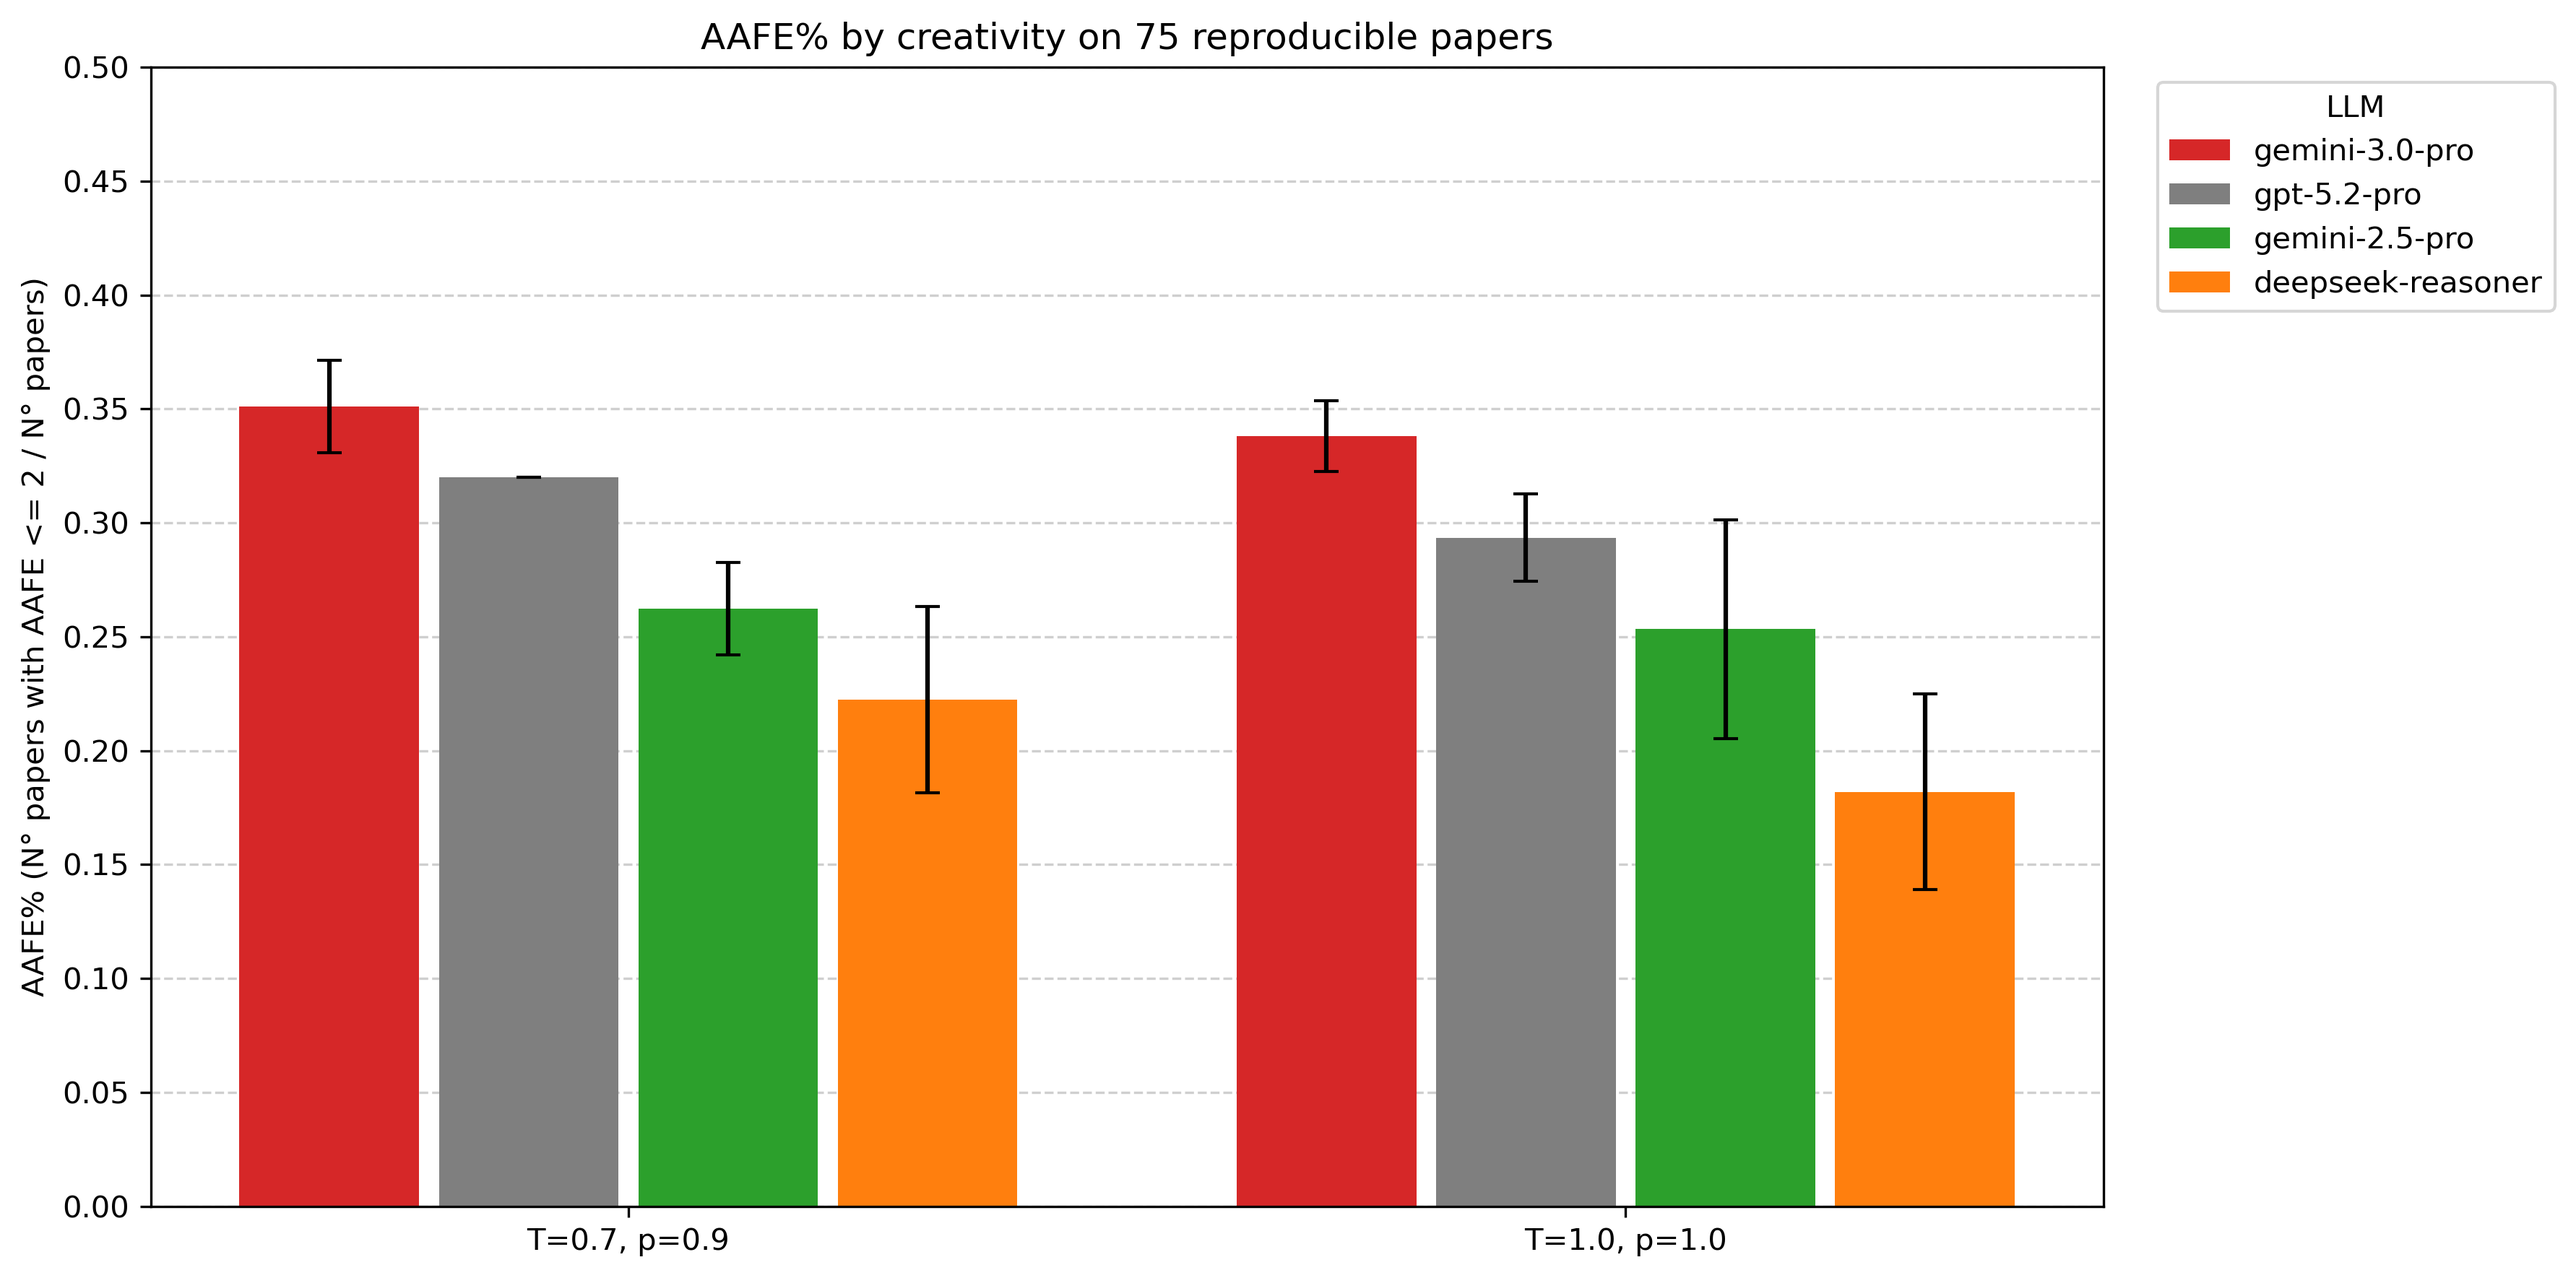
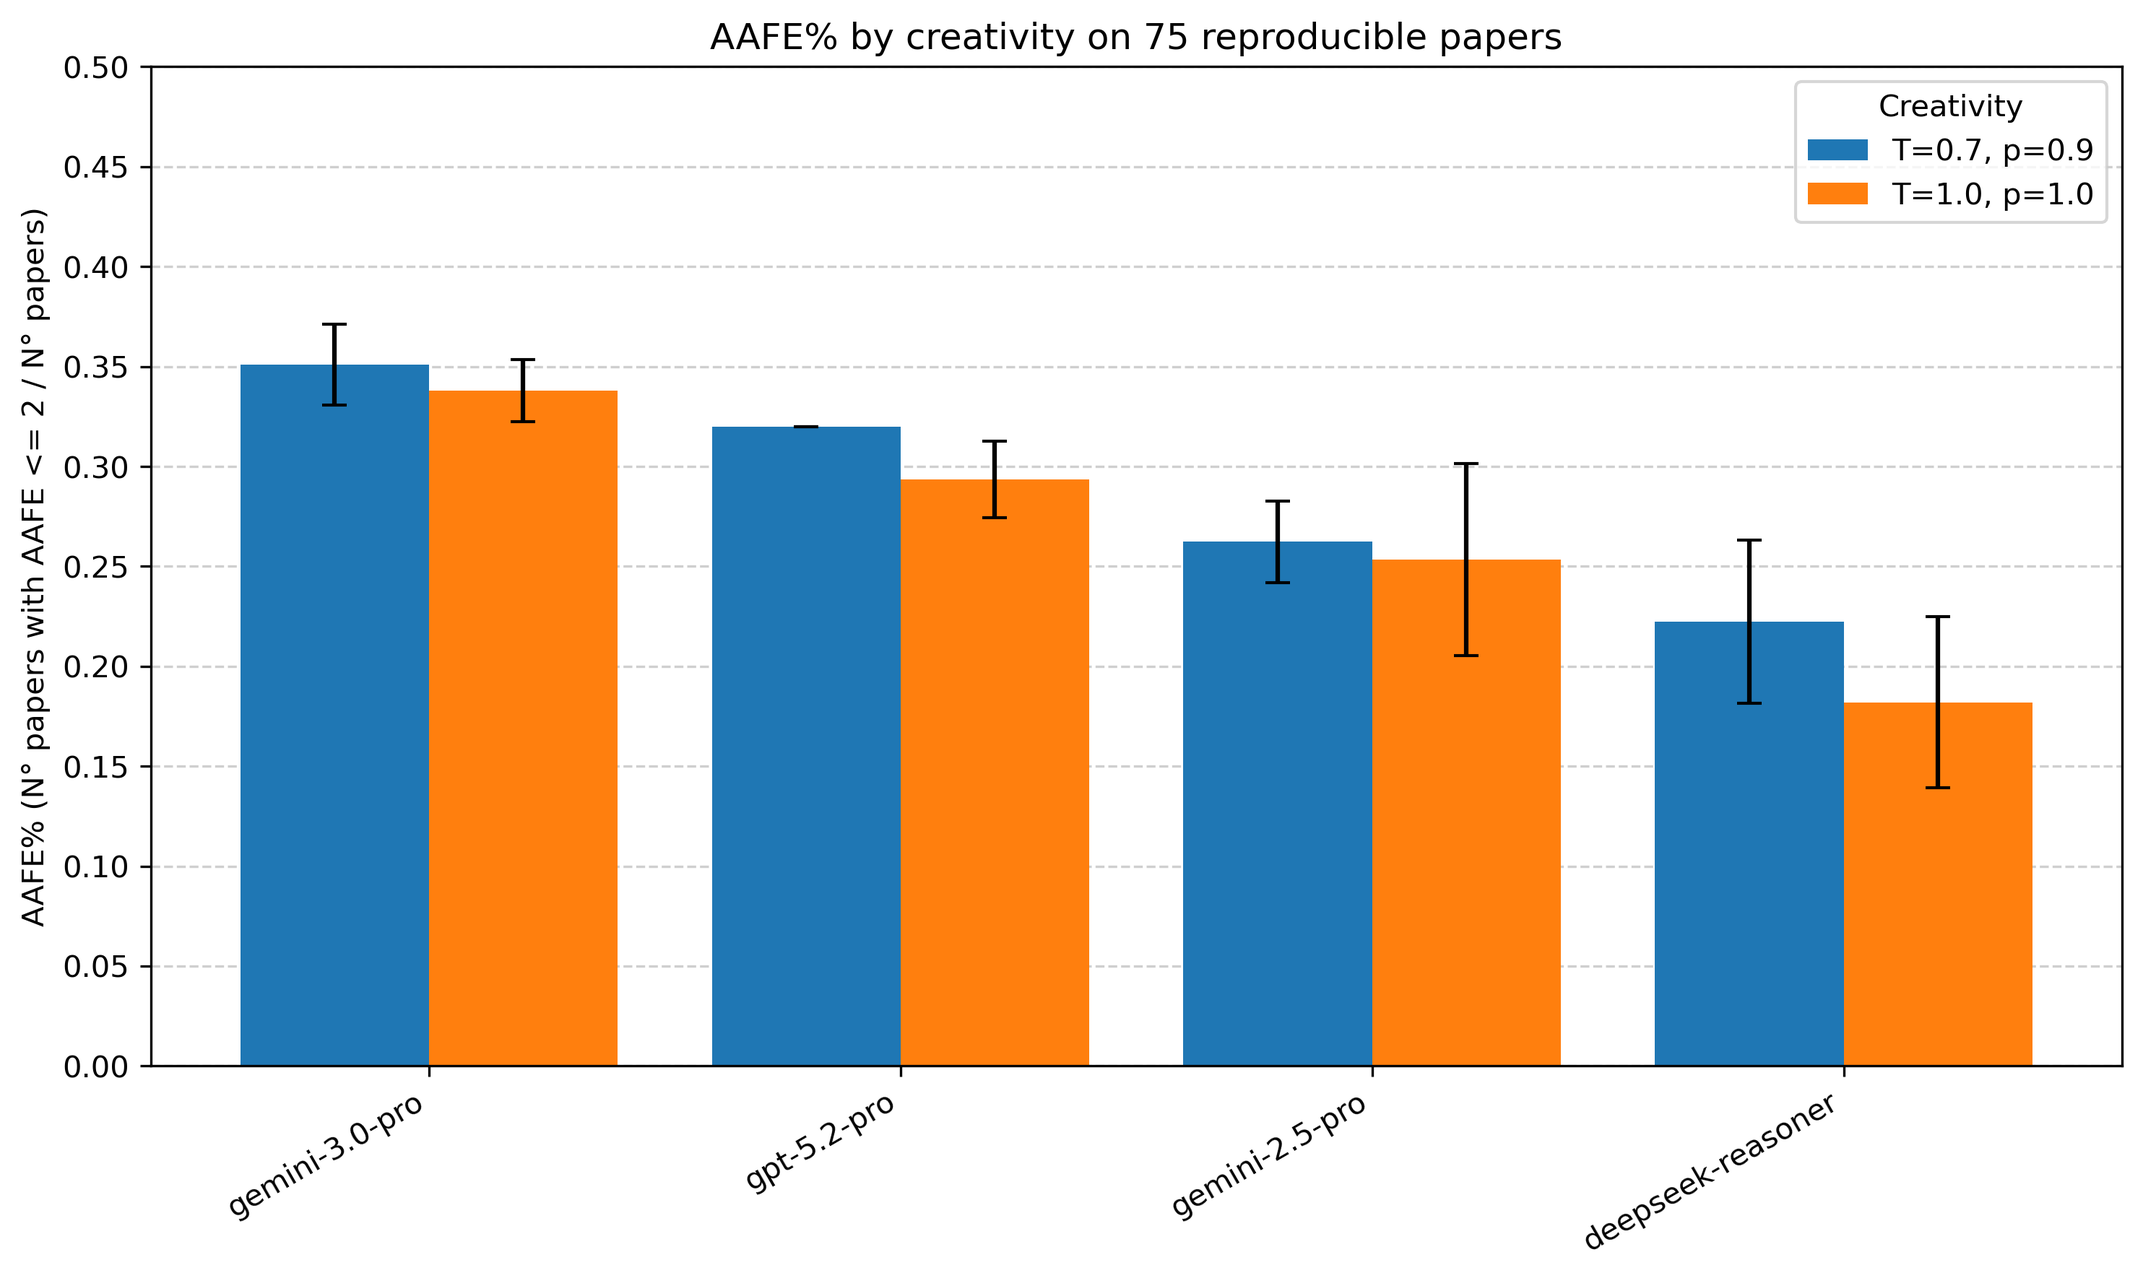
update readme and fig

diff --git a/README.md b/README.md
@@ -6,17 +6,8 @@ Systems Biology models are often described across equations, figures, tables, su
 
 > ### Need a new Systems Biology Model?
 >
-> Before rebuilding the knowledge contained in the literature manually, **contact COSBI**.
+> Before rebuilding the knowledge contained in the literature manually, **contact us** @ [bioinformatics@cosbi.eu](mailto:bioinformatics@cosbi.eu) · [COSBI website and contact information](https://www.cosbi.eu/)  
 >
-> We can combine **SBMLLM with professional scientific curation** to:
-> - create a new Systems Biology Model from one or multiple publications;
-> - extend an existing model with new biological knowledge;
-> - integrate evidence distributed across papers and supplementary materials;
-> - deliver a curated executable model ready for simulation and further development.
->
-> **Contact us:** [bioinformatics@cosbi.eu](mailto:bioinformatics@cosbi.eu) · [COSBI website and contact information](https://www.cosbi.eu/)  
->
-> COSBI has more than 20 years of experience in computational and Systems Biology, including knowledge extraction, data integration, modeling, and simulation.
 
 ## Table of contents
 
@@ -39,8 +30,6 @@ The benchmark shows that modern LLMs can already recover a substantial part of a
 
 The best-performing configuration, **gemini-3.0-pro**, generated executable models for about **97% of papers**, extracted **86.95% of species** and **85.73% of reactions**, and reproduced the dynamics of **34.5% of models** according to the benchmark AAFE criterion.
 
-Performance varies considerably across LLMs—even between versions from the same provider—making systematic evaluation important when selecting a model for this task.
-
 [![SBMLLM average performance](figures/radar_all_llms_raw_latest_inputR.png)](figures/radar_all_llms_raw_latest_inputR.png)
 
 **Figure 1. SBMLLM average performance at automated model replication.** Among the evaluated configurations, gemini-3.0-pro generated executable models for ~97% of papers, recovered 86.95% of species and 85.73% of reactions, and achieved 34.5% dynamical reproducibility.
@@ -51,7 +40,7 @@ A Systems Biology Model is rarely fully described in a single article. Important
 
 You can collect and convert these documents manually before using SBMLLM.
 
-At **COSBI**, however, we already maintain a literature resource in which **papers and their supplementary information are available in Markdown format**, ready to be searched and used as evidence when informing a new Systems Biology Model. This makes it possible to bring together information from multiple publications without having to prepare each document individually.
+At [**COSBI**](https://www.cosbi.eu/contact), however, we already maintain a literature resource in which **papers and their supplementary information are available in Markdown format**, ready to be searched and used as evidence when informing a new Systems Biology Model. This makes it possible to bring together information from multiple publications without having to prepare each document individually.
 
 The benchmark results show why this matters: average dynamical reproducibility decreased from **23.3% to 8.7%** when supplementary materials were unavailable.
 
@@ -59,9 +48,9 @@ The benchmark results show why this matters: average dynamical reproducibility d
 
 **Figure 2. Supplementary materials contain crucial information.** Average reproducibility decreased from 23.3% to 8.7% when supplementary materials were not accessible across the evaluated LLMs.
 
-If you already know the biological system you want to model, or have one or more relevant publications, **you do not need to collect and prepare the entire literature yourself**. COSBI can use its existing literature resources together with SBMLLM and expert curation to build the new Systems Biology Model.
+If you already know the biological system you want to model, or have one or more relevant publications, **you do not need to collect and prepare the entire literature yourself**.
 
-**Contact us:** [bioinformatics@cosbi.eu](mailto:bioinformatics@cosbi.eu) · [COSBI website](https://www.cosbi.eu/)
+COSBI can use its existing literature resources together with SBMLLM and expert curation to build it.
 
 ---
 
@@ -163,7 +152,7 @@ Maps biologically equivalent species names between generated and reference model
 >
 > COSBI can build a **new Systems Biology Model from scratch** or **extend an existing model**, using evidence from one or multiple publications and supplementary sources.
 >
-> [bioinformatics@cosbi.eu](mailto:bioinformatics@cosbi.eu) · [Contact COSBI](https://www.cosbi.eu/)
+> [bioinformatics@cosbi.eu](mailto:bioinformatics@cosbi.eu) · [Contact COSBI](https://www.cosbi.eu/contact)
 
 ---
 
@@ -278,26 +267,3 @@ workdir/test_table.csv
 ```
 
 It summarizes executability, species and reaction recovery, stoichiometric accuracy, dynamical reproducibility, and model size.
-
----
-
-# Build your next Systems Biology Model with us
-
-You can use SBMLLM-Bench to reproduce our evaluation or benchmark another LLM.
-
-If your goal is instead to **create a new Systems Biology Model**, COSBI can take care of much of the literature preparation and model-building process.
-
-We can start from:
-
-- a biological question;
-- one paper;
-- several related papers;
-- an existing model that needs to be extended;
-- or a broader body of literature.
-
-Our existing collection of papers and supplementary information in Markdown format can be used directly to inform SBMLLM, followed by professional scientific curation and model refinement.
-
-**Do not reinvent the wheel if the literature and tooling are already available.**
-
-📧 [bioinformatics@cosbi.eu](mailto:bioinformatics@cosbi.eu)  
-🌐 [COSBI website and contact information](https://www.cosbi.eu/)
